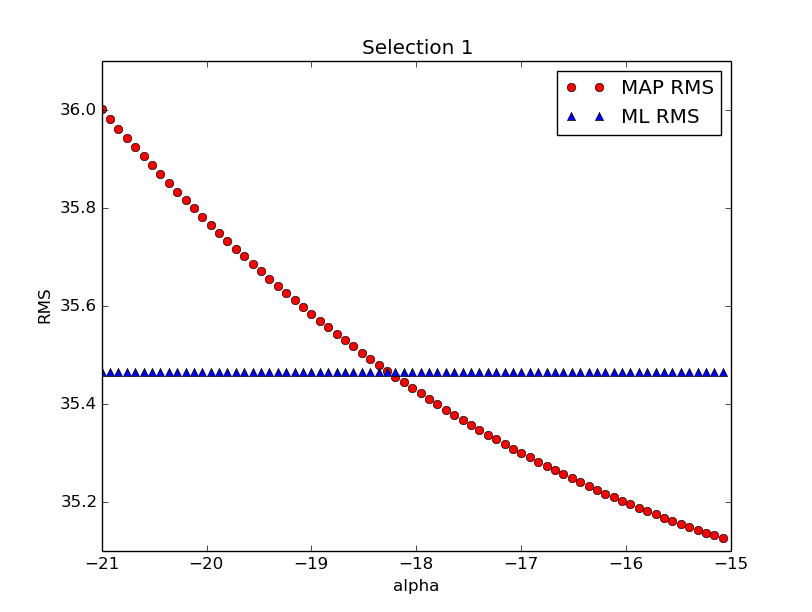
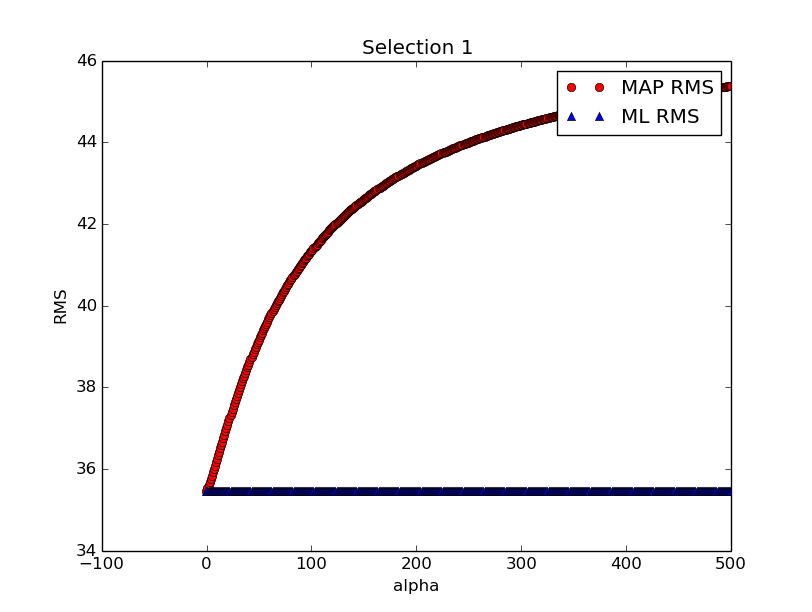
Changed the plots a bit, and some small corrections.

diff --git a/report/assignment2_resubmission/statml.assignment2.tex b/report/assignment2_resubmission/statml.assignment2.tex
@@ -118,24 +118,24 @@ From the calculated RMS errors, selection 3 seems to give the best prediction, f
 \end{figure}
 
 \subsection{Maximum a posteriori solution}
-Figure \ref{fig:alpha_vs_rms_selection1} shows the RMS errors for the maximum a posteriori estimates of $w$ for selection 1, plotted against different values of $\alpha$. For comparison we have also plotted the constant RMS error for the maximum likelihood estimate of $w$. In figure \ref{fig:alpha_vs_rms_selection1a} we let $\alpha$ range from $-25$ to $11$. It looks like the MAP RMS error goes below the ML RMS error for $\alpha$ between $-18$ and $0$, so in figure \ref{fig:alpha_vs_rms_selection1b} we have zoomed in around $\alpha = -18$, and in \ref{fig:alpha_vs_rms_selection1c} we have zoomed in around 0 (note that the model is undefined for $\alpha = 0$ since we use $\alpha^{-1}$).
+Figure \ref{fig:alpha_vs_rms_selection1} shows the RMS errors for the maximum a posteriori estimates of $w$ for selection 1, plotted against different values of $\alpha$. For comparison we have also plotted the constant RMS error for the maximum likelihood estimate of $w$. We let $\alpha$ range from around $0$ to $50$, $500$ and $50.000$, respectively, in the three subfigures. For $\alpha$ close to $0$, the MAP RMS error approaches the ML RMS error, but for increasing values of $\alpha$, the MAP RMS error seems to slowly increase, and the MAP RMS error doesn't seem to ever go below the ML RMS error (it does for negative values of $\alpha$, but it doesn't make any sense to talk about negative variance). When at $\alpha = 50.000$, the MAP RMS error is around $48$.
 
 \begin{figure}[H]
   \begin{adjustwidth}{-7em}{-7em}
     \centering
     \begin{subfigure}{.32\linewidth}
       \includegraphics[width=\linewidth]{figures/alpha_vs_rms_selection1a.png}
-      \caption{$\alpha$ between $-25$ and $11$.}
+      \caption{$\alpha$ ranges from $0$ to $50$.}
       \label{fig:alpha_vs_rms_selection1a}
     \end{subfigure}
     \begin{subfigure}{.32\linewidth}
       \includegraphics[width=\linewidth]{figures/alpha_vs_rms_selection1b.png}
-      \caption{Zoomed in around $\alpha = -18$.}
+      \caption{$\alpha$ ranges from $0$ to $500$.}
       \label{fig:alpha_vs_rms_selection1b}
     \end{subfigure}
     \begin{subfigure}{.32\linewidth}
       \includegraphics[width=\linewidth]{figures/alpha_vs_rms_selection1c.png}
-      \caption{Zoomed in around $\alpha = 0$.}
+      \caption{$\alpha$ ranges from $0$ to $50.000$.}
       \label{fig:alpha_vs_rms_selection1c}
     \end{subfigure}
   \end{adjustwidth}
@@ -143,24 +143,24 @@ Figure \ref{fig:alpha_vs_rms_selection1} shows the RMS errors for the maximum a 
   \label{fig:alpha_vs_rms_selection1}
 \end{figure}
 
-Figure \ref{fig:alpha_vs_rms_selection2} similarly shows the RMS errors for the maximum a posteriori estimates of $w$ for selection 2. Here, it looks like the MAP RMS error goes below the ML RMS error for $\alpha$ between $-15$ and $0$, so in figure \ref{fig:alpha_vs_rms_selection2b} we have zoomed in around $\alpha = -15$, and in \ref{fig:alpha_vs_rms_selection2c} we have zoomed in around 0 (still undefined for $\alpha = 0$).
+Figure \ref{fig:alpha_vs_rms_selection2} similarly shows the RMS errors for the maximum a posteriori estimates of $w$ for selection 2. Again, for $\alpha$ close to $0$, the MAP RMS error approaches the ML RMS error, but for increasing values of $\alpha$, the MAP RMS error seems to slowly increase and doesn't seem to ever go below the ML RMS error (except for negative values of $\alpha$). For $\alpha = 50.000$, the MAP RMS error is around $30$.
 
 \begin{figure}[H]
   \begin{adjustwidth}{-7em}{-7em}
     \centering
     \begin{subfigure}{.32\linewidth}
       \includegraphics[width=\linewidth]{figures/alpha_vs_rms_selection2a.png}
-      \caption{$\alpha$ between $-20$ and $10$.}
+      \caption{$\alpha$ ranges from $0$ to $50$.}
       \label{fig:alpha_vs_rms_selection2a}
     \end{subfigure}
     \begin{subfigure}{.32\linewidth}
       \includegraphics[width=\linewidth]{figures/alpha_vs_rms_selection2b.png}
-      \caption{Zoomed in around $\alpha = -15$.}
+      \caption{$\alpha$ ranges from $0$ to $500$.}
       \label{fig:alpha_vs_rms_selection2b}
     \end{subfigure}
     \begin{subfigure}{.32\linewidth}
       \includegraphics[width=\linewidth]{figures/alpha_vs_rms_selection2c.png}
-      \caption{Zoomed in around $\alpha = 0$.}
+      \caption{$\alpha$ ranges from $0$ to $50.000$.}
       \label{fig:alpha_vs_rms_selection2c}
     \end{subfigure}
   \end{adjustwidth}
@@ -168,30 +168,32 @@ Figure \ref{fig:alpha_vs_rms_selection2} similarly shows the RMS errors for the 
   \label{fig:alpha_vs_rms_selection2}
 \end{figure}
 
-For selection 3 the RMS error seems to behave a bit differently, as figure \ref{fig:alpha_vs_rms_selection3} shows. Here, the MAP RMS error doesn't seem to go below the ML RMS error for numerically large negative values of $\alpha$. For $\alpha = -22$ the RMS error seems to skyrocket, so in figure \ref{fig:alpha_vs_rms_selection3a} we let $\alpha$ range from $-50$ to $-23$, and in figure \ref{fig:alpha_vs_rms_selection3b} we let $\alpha$ range from $-21$ to $10$. It is hard to tell from figure \ref{fig:alpha_vs_rms_selection3b} that lines actually cross, so in figure \ref{fig:alpha_vs_rms_selection3c} we have zoomed in around $\alpha = 0$.
+For selection 3 the RMS error seems to behave a bit differently, as figure \ref{fig:alpha_vs_rms_selection3} shows. Here, the MAP RMS error stays below the ML RMS error quite long and then finally goes above for very large $\alpha$. At its lowest, the MAP RMS error is close to $18.5$, and at $\alpha = 50.000$ the MAP RMS error is just above $21.5$.
 
 \begin{figure}[H]
   \begin{adjustwidth}{-7em}{-7em}
     \centering
     \begin{subfigure}{.32\linewidth}
       \includegraphics[width=\linewidth]{figures/alpha_vs_rms_selection3a.png}
-      \caption{$\alpha$ between $-50$ and $-23$.}
+      \caption{$\alpha$ ranges from $0$ to $50$.}
       \label{fig:alpha_vs_rms_selection3a}
     \end{subfigure}
     \begin{subfigure}{.32\linewidth}
       \includegraphics[width=\linewidth]{figures/alpha_vs_rms_selection3b.png}
-      \caption{$\alpha$ between $-21$ and $10$.}
+      \caption{$\alpha$ ranges from $0$ to $500$.}
       \label{fig:alpha_vs_rms_selection3b}
     \end{subfigure}
     \begin{subfigure}{.32\linewidth}
       \includegraphics[width=\linewidth]{figures/alpha_vs_rms_selection3c.png}
-      \caption{Zoomed in around $\alpha = 0$.}
+      \caption{$\alpha$ ranges from $0$ to $50.000$.}
       \label{fig:alpha_vs_rms_selection3c}
     \end{subfigure}
   \end{adjustwidth}
   \caption{RMS errors for the MAP estimate for selection 3 plotted against different values of $\alpha$ together with the constant RMS error for the ML estimate.}
   \label{fig:alpha_vs_rms_selection3}
 \end{figure}
+
+We haven't been able to explain why the RMS error for selection 3 differs from the other two selection, but from these figures, it looks like selection 3 still provides the best prediction.
 
 \subsection{Weighted sum-of-squares}
 Given the new error function, we note that it resembles very much our previous sum-of-squares error function, defined in (3.12) in the book --- we have only added the factor $r_n$ to the expression inside the sum. Thus, we can follow the method used in formulas (3.13) to (3.15) quite closely, only modifying the formulas a little bit. When taking the gradient of the log likelihood function, we get
@@ -218,11 +220,11 @@ By fiddling with the sums and the corresponding matrices we see that this can be
 w^T \left( \Phi^T \mathrm{R} \Phi \right) = \bm{t}^T \mathrm{R} \Phi
 \end{align*}
 
-where we have defined $R$ to be the diagonal matrix with the weights $r_1, \dots, r_n$ on the diagonal:
+where we have defined $\mathrm{R}$ to be the diagonal matrix with the weights $r_1, \dots, r_n$ on the diagonal:
 
 \begin{align*} %\label{eq:R}
 \setlength\unitlength{13pt}
-R =
+\mathrm{R} =
 \left(\begin{picture}(6,3)(0,-3)
 \put(1,-1){\makebox(0,0){$r_1$}}
 \put(2,-2){\makebox(0,0){$r_2$}}

diff --git a/src/assignment2_resubmission/ii_2_2.py b/src/assignment2_resubmission/ii_2_2.py
@@ -74,23 +74,25 @@ def run():
     ts_test = flatten(selection(test, 5, 5))
     
     # Compute and plot the RMS errors for different values of alpha.
-    alphas1a = np.arange(-25.1, 11.1, 0.5).tolist()
+    alphas1a = np.arange(-0.1, 50.1, 0.2).tolist()
     computeAndPlotRMS('Selection 1', train1, test1, ts_train, ts_test, alphas1a)
-    alphas1b = np.arange(-21, -15, 0.08).tolist()
+    alphas1b = np.arange(-0.1, 500.1, 1).tolist()
     computeAndPlotRMS('Selection 1', train1, test1, ts_train, ts_test, alphas1b)
-    alphas1c = np.arange(-5.1, 5.1, 0.2).tolist()
+    alphas1c = np.arange(-0.1, 50000.1, 100).tolist()
     computeAndPlotRMS('Selection 1', train1, test1, ts_train, ts_test, alphas1c)
-    alphas2a = np.arange(-20.1, 10.1, 0.2).tolist()
+    
+    alphas2a = np.arange(-0.1, 50.1, 0.2).tolist()
     computeAndPlotRMS('Selection 2', train2, test2, ts_train, ts_test, alphas2a)
-    alphas2b = np.arange(-18, -12, 0.08).tolist()
+    alphas2b = np.arange(-0.1, 500.1, 1).tolist()
     computeAndPlotRMS('Selection 2', train2, test2, ts_train, ts_test, alphas2b)
-    alphas2c = np.arange(-5.1, 5.1, 0.2).tolist()
+    alphas2c = np.arange(-0.1, 50000.1, 100).tolist()
     computeAndPlotRMS('Selection 2', train2, test2, ts_train, ts_test, alphas2c)
-    alphas3a = np.arange(-50, -23, 0.2).tolist()
+    
+    alphas3a = np.arange(-0.1, 50.1, 0.2).tolist()
     computeAndPlotRMS('Selection 3', train3, test3, ts_train, ts_test, alphas3a)
-    alphas3b = np.arange(-21.1, 10.1, 0.2).tolist()
+    alphas3b = np.arange(-0.1, 500.1, 1).tolist()
     computeAndPlotRMS('Selection 3', train3, test3, ts_train, ts_test, alphas3b)
-    alphas3c = np.arange(-5.1, 5.1, 0.2).tolist()
+    alphas3c = np.arange(-0.1, 50000.1, 100).tolist()
     computeAndPlotRMS('Selection 3', train3, test3, ts_train, ts_test, alphas3c)
     
 if __name__ == '__main__':
